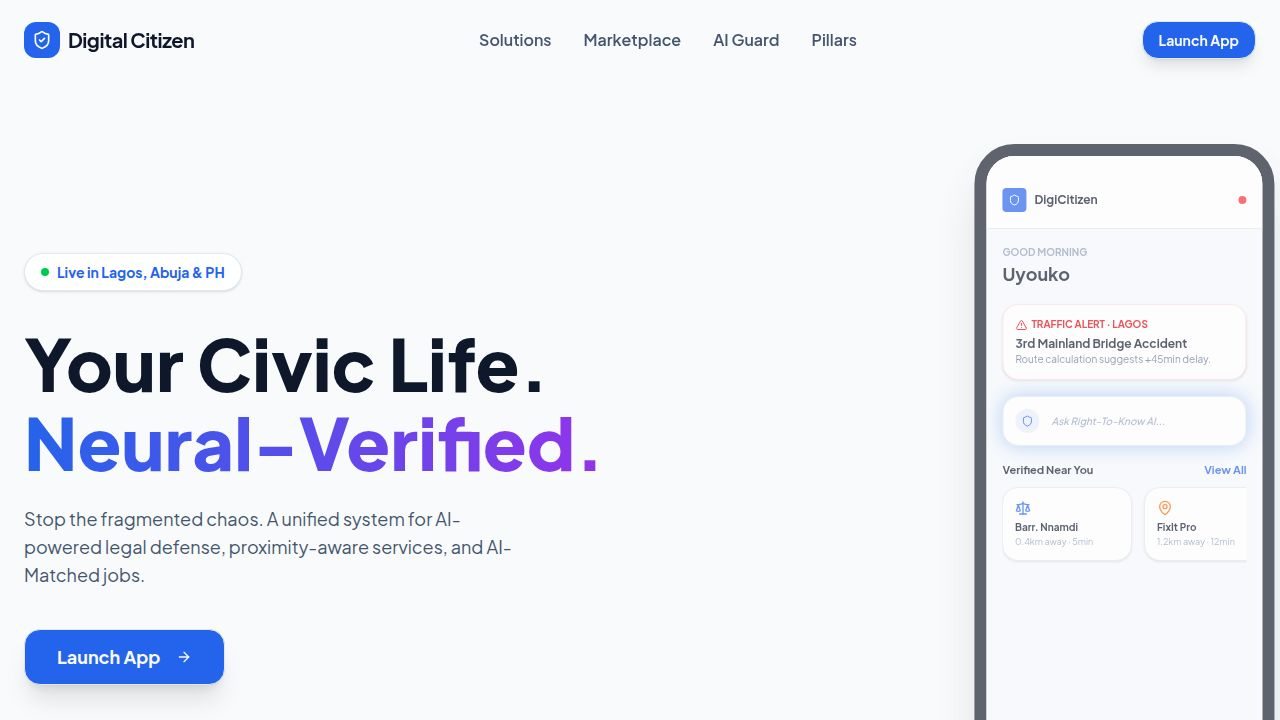
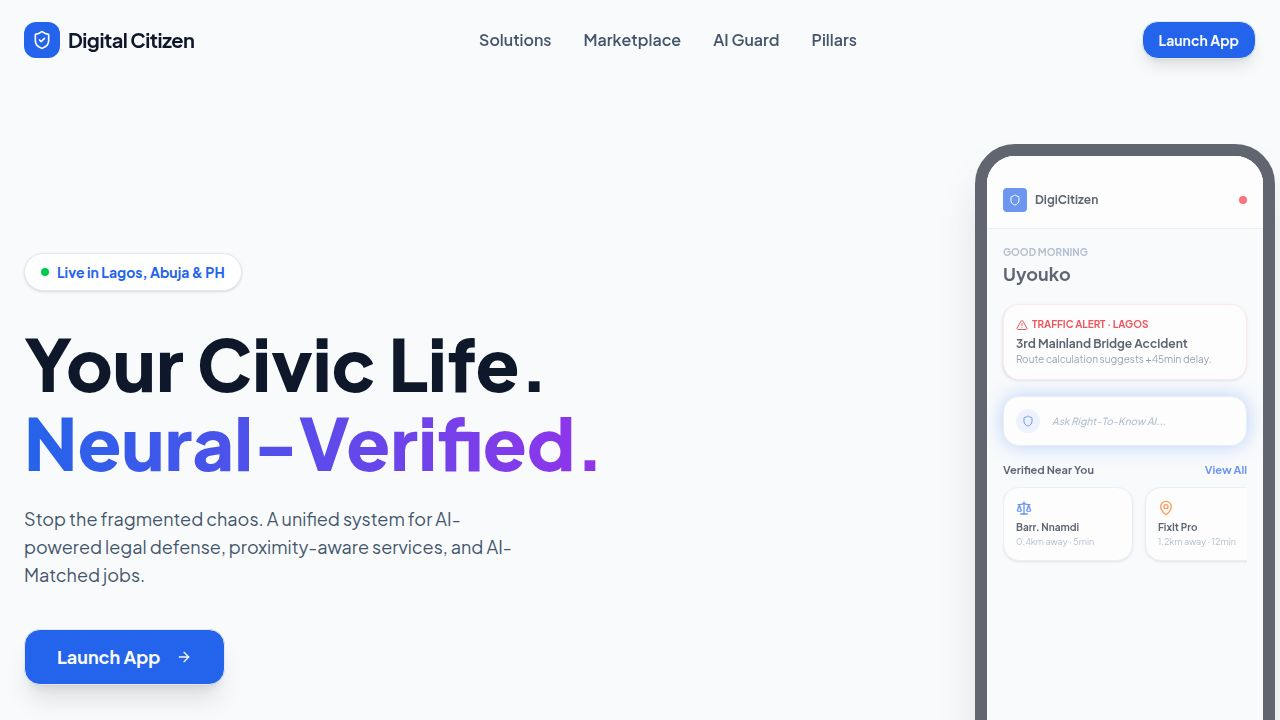
Add plan management and credit system to application
Integrates a new PlanManagement page and adds credit deduction logic to Civic Guard and Jobs, along with credit display components. Updates routing and navigation to include the new plan management section.

Replit-Commit-Author: Agent
Replit-Commit-Session-Id: 5164c6ee-1e2a-4729-91ba-0cf92a8722cb
Replit-Commit-Checkpoint-Type: full_checkpoint
Replit-Commit-Event-Id: 4e6b8367-2ad4-4cce-a3c0-ee8a42fd0412
Replit-Commit-Screenshot-Url: https://storage.googleapis.com/screenshot-production-us-central1/676fe46c-89a2-403b-a68c-b116a8b372ad/5164c6ee-1e2a-4729-91ba-0cf92a8722cb/l1PvYsW
Replit-Helium-Checkpoint-Created: true

diff --git a/client/src/pages/app/Jobs.tsx b/client/src/pages/app/Jobs.tsx
@@ -2,10 +2,14 @@ import { useState, useEffect } from "react";
 import { Card, CardContent } from "@/components/ui/card";
 import { Badge } from "@/components/ui/badge";
 import { Button } from "@/components/ui/button";
-import { Briefcase, Building2, MapPin, DollarSign, Clock, Search, Loader2, X } from "lucide-react";
+import { Briefcase, Building2, MapPin, DollarSign, Clock, Search, Loader2, X, AlertCircle } from "lucide-react";
 import { db, FIREBASE_APP_ID } from "@/lib/firebase";
 import { collection, query, orderBy, limit, onSnapshot, addDoc, serverTimestamp } from "firebase/firestore";
 import { runGemini } from "@/lib/gemini";
+import { useAuth } from "@/context/AuthContext";
+import { useToast } from "@/hooks/use-toast";
+import { useQuery } from "@tanstack/react-query";
+import { CreditDisplay } from "@/components/CreditDisplay";
 import ReactMarkdown from "react-markdown";
 import { cn } from "@/lib/utils";
 
@@ -24,6 +28,8 @@ interface Job {
 }
 
 export default function Jobs() {
+  const { user } = useAuth();
+  const { toast } = useToast();
   const [jobs, setJobs] = useState<Job[]>([]);
   const [loading, setLoading] = useState(true);
   const [searching, setSearching] = useState(false);
@@ -33,6 +39,19 @@ export default function Jobs() {
   const [location, setLocation] = useState("Lagos");
   const [employmentType, setEmploymentType] = useState("");
   const [workMode, setWorkMode] = useState("");
+
+  // Fetch credits
+  const { data: credits, refetch: refetchCredits } = useQuery({
+    queryKey: [`credits-${user?.uid}`],
+    queryFn: async () => {
+      if (!user?.uid) return null;
+      const res = await fetch(`/api/credits/${user.uid}/available`);
+      if (!res.ok) return null;
+      return res.json();
+    },
+    enabled: !!user?.uid,
+    refetchInterval: 30000,
+  });
 
   useEffect(() => {
     const q = query(
@@ -52,6 +71,17 @@ export default function Jobs() {
 
   const handleSearch = async (e: React.FormEvent) => {
     e.preventDefault();
+    
+    // Check credits for job generation
+    if (!credits || credits.availableCredits < 1) {
+      toast({ 
+        title: "No Credits", 
+        description: "Each job search uses 1 credit. Upgrade your plan for unlimited searches.",
+        variant: "destructive"
+      });
+      return;
+    }
+
     setSearching(true);
 
     try {
@@ -86,6 +116,25 @@ export default function Jobs() {
                         isAiFetched: true
                     });
                 }
+
+                // Deduct credit
+                if (user?.uid) {
+                  await fetch(`/api/credits/${user.uid}/deduct`, {
+                    method: 'POST',
+                    headers: { 'Content-Type': 'application/json' },
+                    body: JSON.stringify({
+                      amount: 1,
+                      feature: 'job_search',
+                      description: `Job search: ${role} in ${location}`
+                    })
+                  });
+                  refetchCredits();
+                }
+                
+                toast({ 
+                  title: "Jobs Found", 
+                  description: "New job listings added to your feed"
+                });
              } catch (e) {
                  console.error("Failed to parse AI jobs", e);
              }
@@ -111,10 +160,23 @@ export default function Jobs() {
           <h2 className="text-2xl font-bold tracking-tight">AI Job Matches</h2>
           <p className="text-slate-500">Opportunities curated for your verified profile.</p>
         </div>
-        <Button onClick={() => document.getElementById('search-form')?.scrollIntoView({behavior: 'smooth'})}>
-            Post a Job
-        </Button>
+        <div className="flex gap-2">
+          <CreditDisplay compact={true} />
+          <Button onClick={() => document.getElementById('search-form')?.scrollIntoView({behavior: 'smooth'})}>
+              Post a Job
+          </Button>
+        </div>
       </div>
+
+      {(!credits || credits.availableCredits < 1) && (
+        <div className="bg-yellow-50 border border-yellow-100 rounded-lg p-4 flex items-center gap-3">
+          <AlertCircle className="h-5 w-5 text-yellow-600" />
+          <div className="text-sm">
+            <p className="font-semibold text-yellow-900">No credits for job generation</p>
+            <p className="text-xs text-yellow-700">You can still browse and apply to jobs already generated. <a href="/app/plans" className="underline font-bold">Upgrade your plan</a> for unlimited searches.</p>
+          </div>
+        </div>
+      )}
 
       {/* Search Form */}
       <Card className="bg-blue-50 border-blue-100">

diff --git a/client/src/pages/app/Civic.tsx b/client/src/pages/app/Civic.tsx
@@ -3,10 +3,13 @@ import { Button } from "@/components/ui/button";
 import { Input } from "@/components/ui/input";
 import { ScrollArea } from "@/components/ui/scroll-area";
 import { Avatar, AvatarFallback } from "@/components/ui/avatar";
-import { Send, Sparkles, User, ShieldCheck, Copy, ThumbsUp, Mic } from "lucide-react";
+import { Send, Sparkles, User, ShieldCheck, Copy, ThumbsUp, Mic, AlertCircle } from "lucide-react";
 import { cn } from "@/lib/utils";
 import { GEMINI_API_KEY } from "@/lib/firebase";
 import { useAuth } from "@/context/AuthContext";
+import { useToast } from "@/hooks/use-toast";
+import { CreditDisplay } from "@/components/CreditDisplay";
+import { useQuery } from "@tanstack/react-query";
 import ReactMarkdown from "react-markdown";
 
 interface Message {
@@ -17,11 +20,25 @@ interface Message {
 
 export default function CivicGuard() {
   const { user } = useAuth();
+  const { toast } = useToast();
   const [messages, setMessages] = useState<Message[]>([]);
   const [input, setInput] = useState("");
   const [isTyping, setIsTyping] = useState(false);
   const [isUrgent, setIsUrgent] = useState(false);
   const scrollRef = useRef<HTMLDivElement>(null);
+
+  // Fetch credits
+  const { data: credits, refetch: refetchCredits } = useQuery({
+    queryKey: [`credits-${user?.uid}`],
+    queryFn: async () => {
+      if (!user?.uid) return null;
+      const res = await fetch(`/api/credits/${user.uid}/available`);
+      if (!res.ok) return null;
+      return res.json();
+    },
+    enabled: !!user?.uid,
+    refetchInterval: 30000,
+  });
 
   useEffect(() => {
     if (scrollRef.current) {
@@ -31,6 +48,16 @@ export default function CivicGuard() {
 
   const handleSend = async () => {
     if (!input.trim()) return;
+
+    // Check credits
+    if (!credits || credits.availableCredits < 1) {
+      toast({ 
+        title: "No Credits", 
+        description: "You've used all your daily credits. Upgrade your plan for unlimited access.",
+        variant: "destructive"
+      });
+      return;
+    }
 
     const userText = input;
     setInput("");
@@ -82,6 +109,20 @@ export default function CivicGuard() {
         .filter((s: any) => s.uri && s.title) || [];
 
       setMessages(prev => [...prev, { role: "ai", text: aiText, sources }]);
+      
+      // Deduct credit
+      if (user?.uid) {
+        await fetch(`/api/credits/${user.uid}/deduct`, {
+          method: 'POST',
+          headers: { 'Content-Type': 'application/json' },
+          body: JSON.stringify({
+            amount: 1,
+            feature: 'civic_guard',
+            description: `Legal AI query: ${userText.substring(0, 50)}`
+          })
+        });
+        refetchCredits();
+      }
     } catch (error) {
       console.error("Gemini Error:", error);
       setMessages(prev => [...prev, { role: "ai", text: "I'm having trouble connecting to the legal database right now. Please check your internet connection." }]);
@@ -94,6 +135,19 @@ export default function CivicGuard() {
     <div className="h-[calc(100vh-8rem)] flex flex-col md:grid md:grid-cols-3 gap-6">
       {/* Main Chat Area */}
       <div className="md:col-span-2 flex flex-col bg-white rounded-3xl border shadow-sm overflow-hidden h-full">
+        {(!credits || credits.availableCredits <= 2) && (
+          <div className="bg-yellow-50 border-b border-yellow-100 p-3 flex items-center gap-3">
+            <AlertCircle className="h-5 w-5 text-yellow-600" />
+            <div className="text-sm flex-1">
+              <p className="font-semibold text-yellow-900">
+                {!credits || credits.availableCredits === 0 
+                  ? "No credits available" 
+                  : `${credits.availableCredits} credit${credits.availableCredits !== 1 ? 's' : ''} remaining`}
+              </p>
+              <p className="text-xs text-yellow-700">Each query uses 1 credit. <a href="/app/plans" className="underline font-bold">Upgrade your plan</a> for more.</p>
+            </div>
+          </div>
+        )}
         <div className={cn("p-4 border-b flex items-center justify-between transition-colors", isUrgent ? "bg-red-50 border-red-100" : "bg-slate-50")}>
           <div className="flex items-center gap-3">
             <div className={cn("p-2 rounded-lg", isUrgent ? "bg-red-100 text-red-600" : "bg-primary/10 text-primary")}>
@@ -191,6 +245,8 @@ export default function CivicGuard() {
 
       {/* Sidebar Info */}
       <div className="hidden md:block space-y-6">
+        <CreditDisplay compact={false} onClick={() => window.location.href = '/app/plans'} />
+        
         <div className="bg-slate-900 text-white p-6 rounded-3xl relative overflow-hidden">
           <div className="absolute top-0 right-0 w-32 h-32 bg-primary/20 rounded-full blur-3xl -mr-10 -mt-10 pointer-events-none"></div>
           <h3 className="font-bold text-lg mb-2 relative z-10">How it works</h3>

diff --git a/client/src/App.tsx b/client/src/App.tsx
@@ -13,6 +13,7 @@ import Marketplace from "@/pages/app/Marketplace";
 import Jobs from "@/pages/app/Jobs";
 import Forum from "@/pages/app/Forum";
 import Events from "@/pages/app/Events";
+import PlanManagement from "@/pages/app/PlanManagement";
 import Login from "@/pages/auth/Login";
 
 function Router() {
@@ -39,6 +40,9 @@ function Router() {
       </Route>
       <Route path="/app/events">
         <AppLayout><Events /></AppLayout>
+      </Route>
+      <Route path="/app/plans">
+        <AppLayout><PlanManagement /></AppLayout>
       </Route>
 
       <Route component={NotFound} />

diff --git a/client/src/pages/app/Layout.tsx b/client/src/pages/app/Layout.tsx
@@ -11,7 +11,8 @@ import {
   Menu,
   X,
   ShieldCheck,
-  Calendar
+  Calendar,
+  Zap
 } from "lucide-react";
 import { useState } from "react";
 import { Button } from "@/components/ui/button";
@@ -47,6 +48,7 @@ export default function AppLayout({ children }: AppLayoutProps) {
     { icon: Briefcase, label: "Jobs", href: "/app/jobs" },
     { icon: Users, label: "Forum", href: "/app/forum" },
     { icon: Calendar, label: "Events", href: "/app/events" },
+    { icon: Zap, label: "Plans & Billing", href: "/app/plans" },
   ];
 
   return (